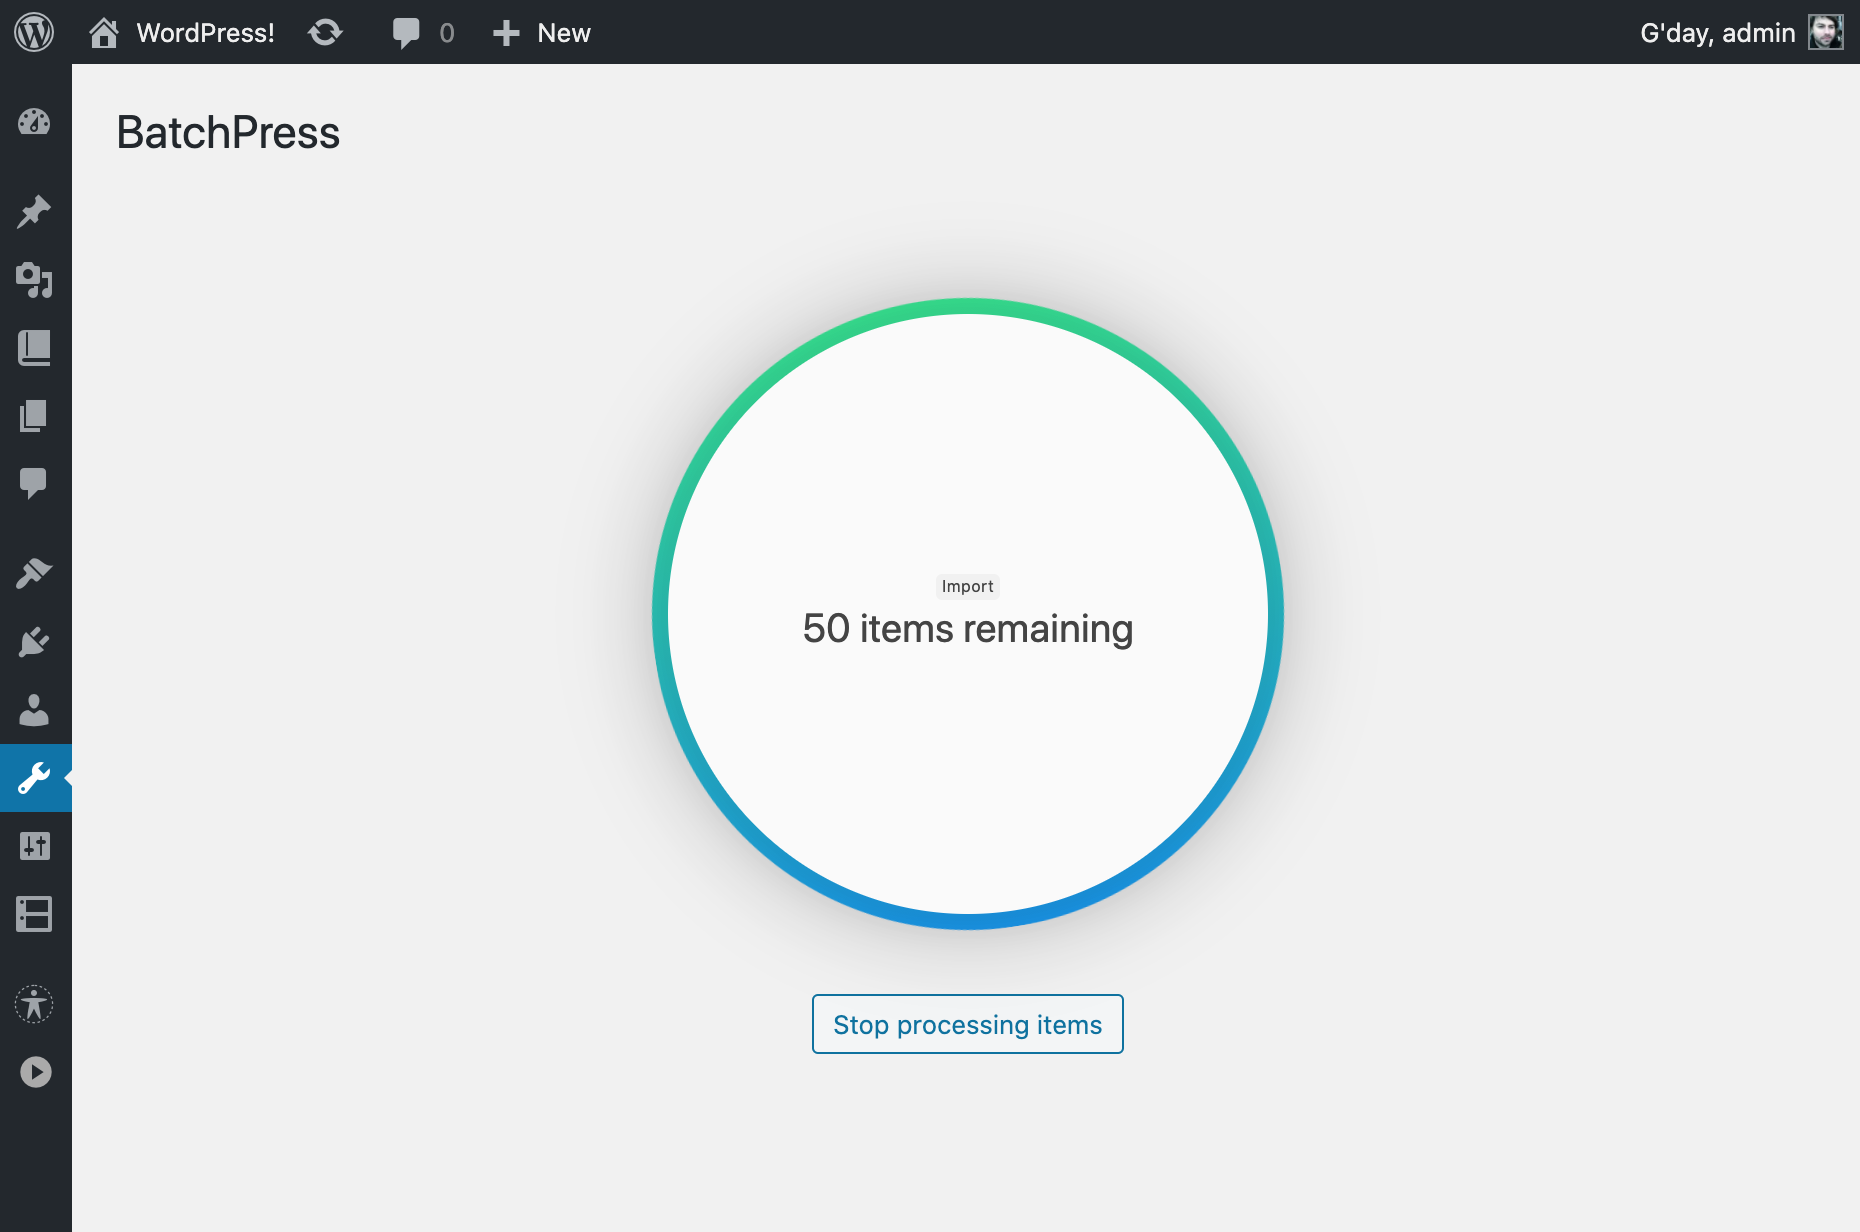
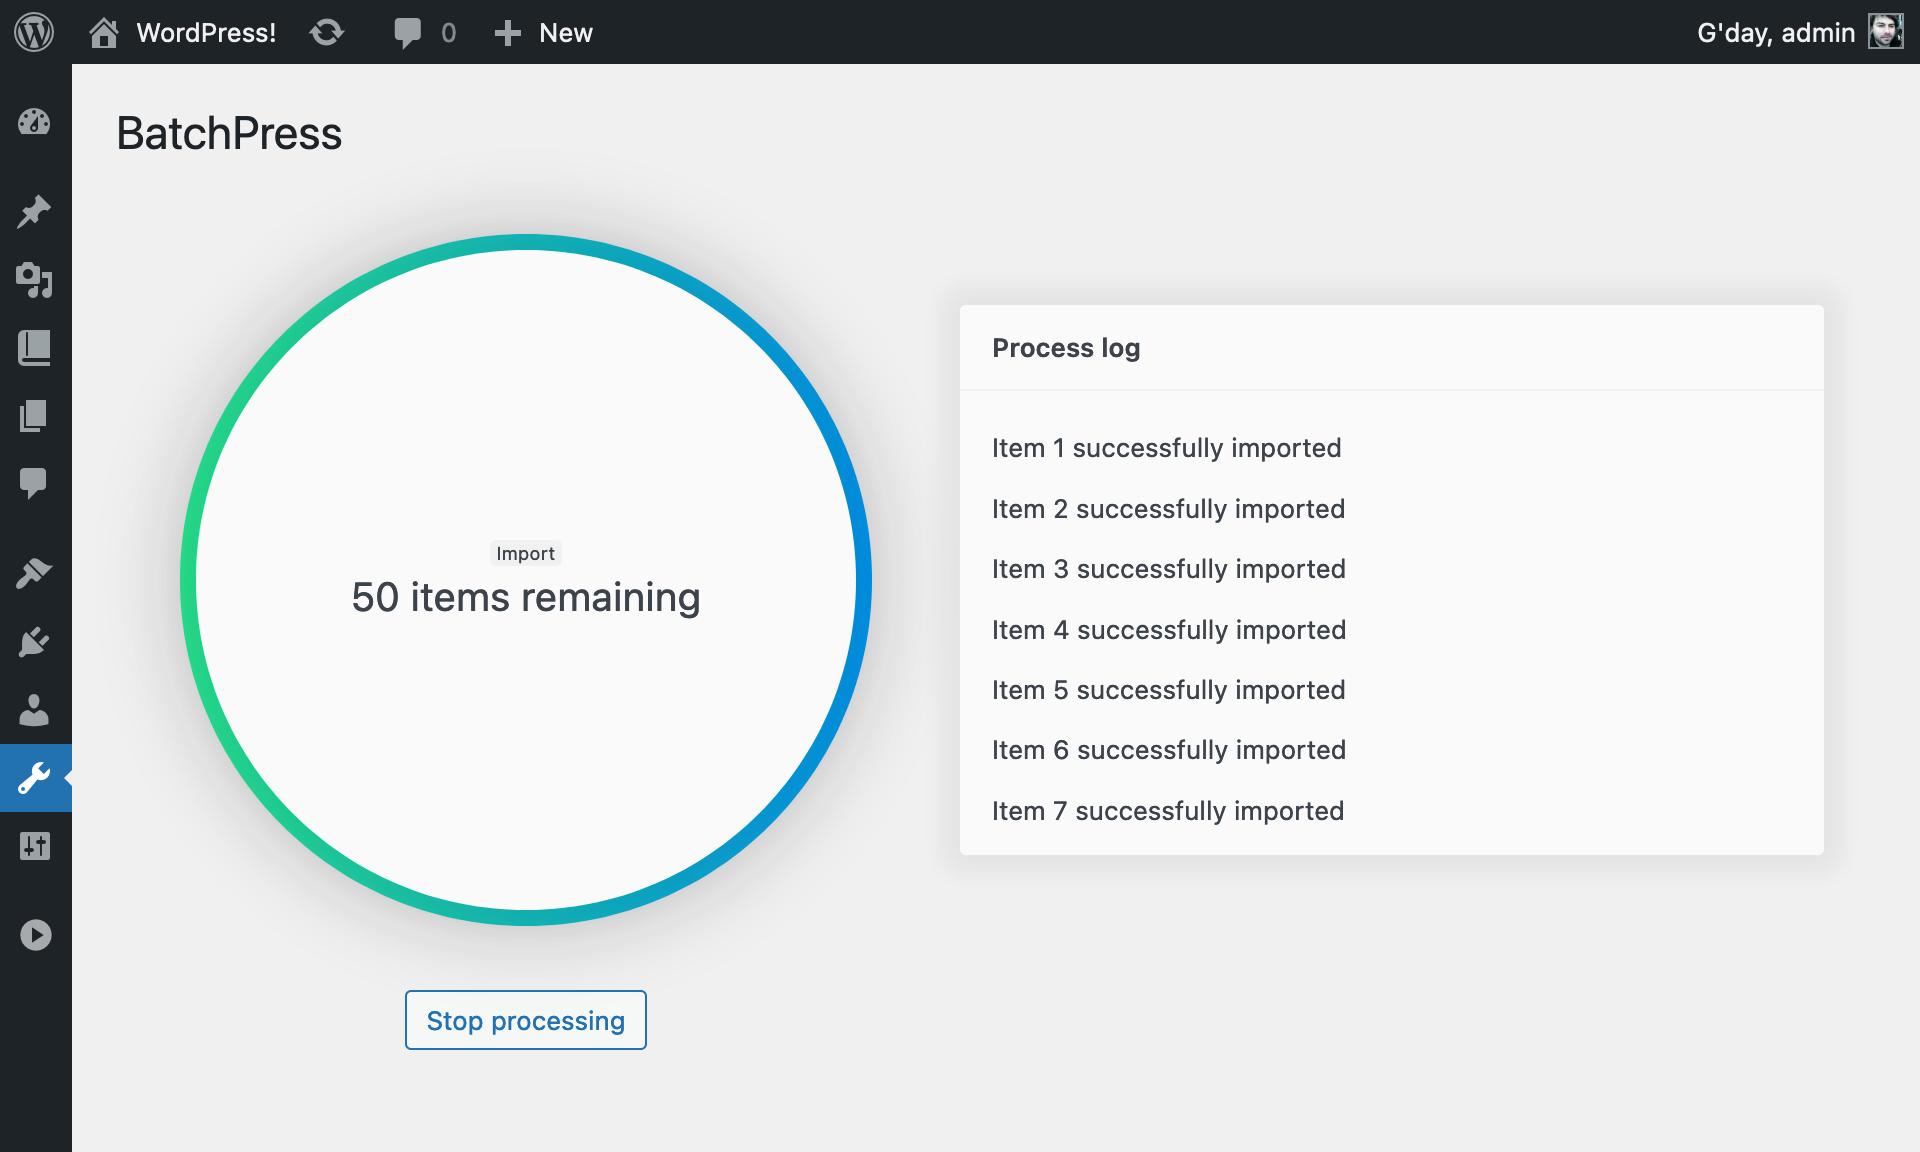
Add process logs

diff --git a/assets/scripts/admin.min.js b/assets/scripts/admin.min.js
@@ -1,2 +1,2 @@
-"use strict";!function(s){var t=null,a=null,c=s(".batchpress"),r=s(".batchpress-message"),e=c.find(".batchpress-form").data("nonce");function n(){c.find(".batchpress-button").attr("disabled",!1)}function o(c){a=s.post(ajaxurl,{action:"batchpress",job:t,nonce:e,process:c}).done(p).fail(u)}function l(s){s.preventDefault(),t=c.find("input[name=job]:checked").val(),o("start"),c.addClass("batchpress-processing"),r.html("<small>".concat(t,"</small> ").concat(r.data("message")))}function i(){try{a.abort()}catch(s){console.error("Abort: ".concat(s))}finally{o("stop"),c.removeClass("batchpress-processing batchpress-error")}}function p(s){if(b(s=f(s)),"processing"===s.status)return o("run")}function u(s){b(f(s)),c.addClass("batchpress-error")}function b(s){r.html("<small>".concat(t,"</small> ").concat(s.message)),c.addClass("batchpress-"+s.status)}function h(){c.removeClass("batchpress-done batchpress-error batchpress-processing")}function f(t){try{return s.parseJSON(t)}catch(s){return{status:"error",message:s}}}c.on("click",".batchpress-option",n),c.on("submit",".batchpress-form",l),c.on("click",".batchpress-stop",i),c.on("click",".batchpress-back",h)}(jQuery);
+"use strict";!function(s){var t=null,a=null,c=s(".batchpress"),r=s(".batchpress-message"),e=s(".batchpress-log ul"),n=c.find(".batchpress-form").data("nonce");function o(){c.find(".batchpress-button").attr("disabled",!1)}function l(c){a=s.post(ajaxurl,{action:"batchpress",job:t,nonce:n,process:c}).done(u).fail(b)}function p(s){s.preventDefault(),t=c.find("input[name=job]:checked").val(),l("start"),c.addClass("batchpress-processing"),r.html("<small>".concat(t,"</small> ").concat(r.data("message")))}function i(){try{a.abort()}catch(s){console.error("Abort: ".concat(s))}finally{l("stop"),e.empty(),c.removeClass("batchpress-processing batchpress-error")}}function u(s){if(h(s=m(s)),"processing"===s.status)return l("run")}function b(s){h(m(s)),c.addClass("batchpress-error")}function h(s){e.append(s.log.map((function(s){return"<li>".concat(s,"</li>")}))),r.html("<small>".concat(t,"</small> ").concat(s.message)),c.addClass("batchpress-"+s.status)}function f(){e.empty(),c.removeClass("batchpress-done batchpress-error batchpress-processing")}function m(t){try{return s.parseJSON(t)}catch(s){return{status:"error",message:s}}}c.on("click",".batchpress-option",o),c.on("submit",".batchpress-form",p),c.on("click",".batchpress-stop",i),c.on("click",".batchpress-back",f)}(jQuery);
 //# sourceMappingURL=admin.min.js.map

diff --git a/assets/styles/admin.css b/assets/styles/admin.css
@@ -3,14 +3,19 @@
 .batchpress button {
   transition: all 0.25s ease; }
 
+.batchpress-jobs {
+  margin-bottom: 2.5rem; }
+
 .batchpress-process {
   display: none;
-  min-height: 80vh;
-  align-items: center;
-  justify-content: center;
-  flex-wrap: wrap;
-  flex-direction: column; }
-
+  place-items: center;
+  grid-template-columns: 1fr;
+  gap: 2.5rem;
+  margin: 2.5rem; }
+  @media (min-width: 961px) {
+    .batchpress-process {
+      gap: 2.5rem 5rem;
+      grid-template-columns: auto 1fr; } }
 .batchpress-message {
   display: flex;
   flex-direction: column;
@@ -22,7 +27,6 @@
   font-size: 1.25rem;
   background-color: #fafafa;
   padding: 2.5rem;
-  margin: 1.5rem auto 2.5rem;
   text-align: center;
   line-height: 1.2;
   border-radius: 50%;
@@ -48,12 +52,39 @@
     border-radius: 3px;
     text-transform: capitalize; }
 
+.batchpress-actions {
+  display: flex;
+  justify-content: center; }
+
+.batchpress-log {
+  background-color: #fafafa;
+  border-radius: 3px;
+  margin: 0;
+  overflow-y: auto;
+  height: 275px;
+  width: 100%;
+  max-width: 35rem;
+  box-shadow: 0 0 10px 10px rgba(0, 0, 0, 0.05); }
+  @media (min-width: 961px) {
+    .batchpress-log {
+      justify-self: start; } }
+  .batchpress-log-heading {
+    margin: 0 0 0.75rem;
+    padding: 0.75rem 1rem;
+    border-bottom: 1px solid #f1f1f1;
+    background-color: #fafafa;
+    position: sticky;
+    top: 0; }
+  .batchpress-log li {
+    margin: 0;
+    padding: 0.375rem 1rem; }
+
 .batchpress-processing .batchpress-form,
 .batchpress-processing .batchpress-back {
   display: none; }
 
 .batchpress-processing .batchpress-process {
-  display: flex; }
+  display: grid; }
 
 .batchpress-done .batchpress-message::before, .batchpress-error .batchpress-message::before {
   animation-play-state: paused; }

diff --git a/assets/styles/admin.scss b/assets/styles/admin.scss
@@ -5,6 +5,7 @@ $red: #ff5d34;
 $black: #4c4f52;
 $silver: #f1f1f1;
 $white: #fafafa;
+$breakpoint: 961px;
 
 /* Main Styles */
 .batchpress {
@@ -12,13 +13,21 @@ $white: #fafafa;
     transition: all 0.25s ease;
   }
 
+  &-jobs {
+    margin-bottom: 2.5rem;
+  }
+
   &-process {
     display: none;
-    min-height: 80vh;
-    align-items: center;
-    justify-content: center;
-    flex-wrap: wrap;
-    flex-direction: column;
+    place-items: center;
+    grid-template-columns: 1fr;
+    gap: 2.5rem;
+    margin: 2.5rem;
+
+    @media (min-width: $breakpoint) {
+      gap: 2.5rem 5rem;
+      grid-template-columns: auto 1fr;
+    }
   }
 
   &-message {
@@ -32,7 +41,6 @@ $white: #fafafa;
     font-size: 1.25rem;
     background-color: $white;
     padding: 2.5rem;
-    margin: 1.5rem auto 2.5rem;
     text-align: center;
     line-height: 1.2;
     border-radius: 50%;
@@ -63,6 +71,40 @@ $white: #fafafa;
     }
   }
 
+  &-actions {
+    display: flex;
+    justify-content: center;
+  }
+
+  &-log {
+    background-color: $white;
+    border-radius: 3px;
+    margin: 0;
+    overflow-y: auto;
+    height: 275px;
+    width: 100%;
+    max-width: 35rem;
+    box-shadow: 0 0 10px 10px rgba(0, 0, 0, 0.05);
+
+    @media (min-width: $breakpoint) {
+      justify-self: start;
+    }
+
+    &-heading {
+      margin: 0 0 0.75rem;
+      padding: 0.75rem 1rem;
+      border-bottom: 1px solid $silver;
+      background-color: $white;
+      position: sticky;
+      top: 0;
+    }
+
+    li {
+      margin: 0;
+      padding: 0.375rem 1rem;
+    }
+  }
+
   &-processing {
     .batchpress-form,
     .batchpress-back {
@@ -70,7 +112,7 @@ $white: #fafafa;
     }
 
     .batchpress-process {
-      display: flex;
+      display: grid;
     }
   }
 

diff --git a/assets/scripts/admin.js b/assets/scripts/admin.js
@@ -4,6 +4,7 @@
   let ajax = null
   const bp = $('.batchpress')
   const message = $('.batchpress-message')
+  const log = $('.batchpress-log ul')
   const nonce = bp.find('.batchpress-form').data('nonce')
 
   // Events
@@ -43,6 +44,7 @@
       console.error(`Abort: ${error}`)
     } finally {
       process('stop')
+      log.empty()
       bp.removeClass('batchpress-processing batchpress-error')
     }
   }
@@ -66,12 +68,14 @@
 
   // Update the on page status
   function status(data) {
+    log.append(data.log.map(entry => `<li>${entry}</li>`))
     message.html(`<small>${job}</small> ${data.message}`)
     bp.addClass('batchpress-' + data.status)
   }
 
   // Go back to start screen
   function back() {
+    log.empty()
     bp.removeClass('batchpress-done batchpress-error batchpress-processing')
   }
 

diff --git a/includes/updater.php b/includes/updater.php
@@ -12,8 +12,9 @@ if (!defined('ABSPATH')) exit;
 
 class Updater {
   private $jobs;
+  private $job;
+  private $log;
   private $method;
-  private $option;
 
   /**
    * Add actions.
@@ -35,7 +36,8 @@ class Updater {
     $job = sanitize_text_field($_POST['job']);
     $process = sanitize_text_field($_POST['process']);
 
-    $this->option = "batchpress-{$job}";
+    $this->job = "batchpress-{$job}";
+    $this->log = "batchpress-{$job}-log";
     $this->method = implode(array_map(fn($s) => ucfirst($s), explode('-', $job)));
 
     $this->$process();
@@ -45,22 +47,26 @@ class Updater {
    * Run any setup before starting the process for the first time.
    */
   private function start() {
-    $items = get_option($this->option);
+    $items = get_option($this->job, []);
+    $log = get_option($this->log, []);
 
     if (! $items) {
+      $log = [];
       $items = $this->jobs->{"get{$this->method}"}();
     }
 
-    update_option($this->option, $items);
+    update_option($this->job, $items);
+    update_option($this->log, $log);
 
-    $this->response('processing', sprintf(_n('%d item remaining', '%d items remaining', count($items), 'batchpress'), count($items)));
+    $this->response('processing', sprintf(_n('%d item remaining', '%d items remaining', count($items), 'batchpress'), count($items)), $log);
   }
 
   /**
    * Run any teardown when stopping the process.
    */
   private function stop() {
-    update_option($this->option, []);
+    update_option($this->job, []);
+    update_option($this->log, []);
 
     $this->response('stop', __('Processing...', 'batchpress'));
   }
@@ -69,20 +75,26 @@ class Updater {
    * Run the actual batch operation.
    */
   private function run() : bool {
-    $items = get_option($this->option);
+    $items = get_option($this->job, []);
     $batch = array_splice($items, 0, $this->jobs->batch);
 
-    foreach($batch as $item) {
-      $this->jobs->{"process{$this->method}"}($item);
-    }
+    $processed = array_filter(array_map(function($item) {
+      return $this->jobs->{"process{$this->method}"}($item) ?: null;
+    }, $batch));
 
-    update_option($this->option, $items);
+    update_option($this->job, $items);
+
+    if ($processed) {
+      $log = get_option($this->log, []);
+
+      update_option($this->log, array_merge($log, $processed));
+    }
 
     if (! $items) {
-      $this->response('done', __('Finished processing!'));
+      $this->response('done', __('Finished processing!'), $processed);
     }
 
-    $this->response('processing', sprintf(_n('%d item remaining', '%d items remaining', count($items), 'batchpress'), count($items)));
+    $this->response('processing', sprintf(_n('%d item remaining', '%d items remaining', count($items), 'batchpress'), count($items)), $processed);
   }
 
   /**
@@ -95,10 +107,11 @@ class Updater {
   /**
    * Return response data.
    */
-  private function response(string $status, string $message) {
+  private function response(string $status, string $message, array $log = []) {
     echo json_encode([
       'status' => $status,
-      'message' => $message
+      'message' => $message,
+      'log' => $log
     ]);
 
     die();

diff --git a/includes/page.php b/includes/page.php
@@ -6,7 +6,7 @@
   <form class="batchpress-form" data-nonce="<?= wp_create_nonce('batchpress'); ?>">
     <h4><?php _e('Choose process to run', 'batchpress'); ?></h4>
 
-    <ul>
+    <ul class="batchpress-jobs">
       <?php foreach($jobs as $name => $description) : ?>
         <li>
           <label><input type="radio" name="job" value="<?= $name; ?>" class="batchpress-option"> <?= $description; ?></label>
@@ -21,13 +21,19 @@
 
   <div class="batchpress-process">
     <div class="batchpress-message" data-message="<?php _e('Processing...', 'batchpress'); ?>"></div>
+    <div class="batchpress-log">
+      <h4 class="batchpress-log-heading"><?php _e('Process log', 'batchpress'); ?></h4>
+      <ul></ul>
+    </div>
 
-    <button type="button" class="batchpress-stop button button-secondary">
-      <?php _e('Stop processing', 'batchpress'); ?>
-    </button>
+    <div class="batchpress-actions">
+      <button type="button" class="batchpress-stop button button-secondary">
+        <?php _e('Stop processing', 'batchpress'); ?>
+      </button>
 
-    <button type="button" class="batchpress-back button button-secondary">
-      <?php _e('Go back', 'batchpress'); ?>
-    </button>
+      <button type="button" class="batchpress-back button button-secondary">
+        <?php _e('Go back', 'batchpress'); ?>
+      </button>
+    </div>
   </div>
 </div>

diff --git a/includes/jobs.php b/includes/jobs.php
@@ -14,20 +14,37 @@ class Jobs {
   use Helpers;
 
   public $batch = 10;
-  public $list = ['import' => 'Import Items'];
+  public $list = ['import' => 'Import Items', 'update' => 'Update Items'];
 
   /**
    * Get items to import.
    */
   public function getImport() : array {
     // Actually get data here
-    return array_fill(0, 100, true);
+    return range(1, 100);
   }
 
   /**
    * Get items to import.
    */
-  public function processImport($item) : void {
+  public function processImport($item) {
     // Actually import items here
+    return "Item {$item} successfully imported";
+  }
+
+  /**
+   * Get items to update.
+   */
+  public function getUpdate() : array {
+    // Actually get data here
+    return range(1, 100);
+  }
+
+  /**
+   * Get items to update.
+   */
+  public function processUpdate($item) {
+    // Actually import items here
+    return "Item {$item} successfully updated";
   }
 }
